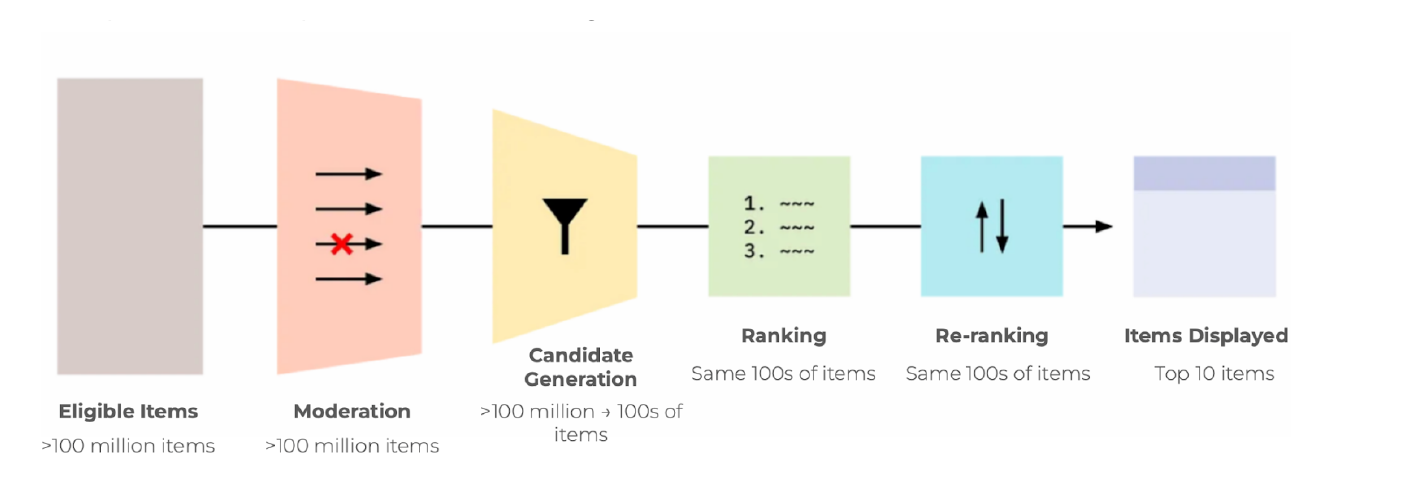
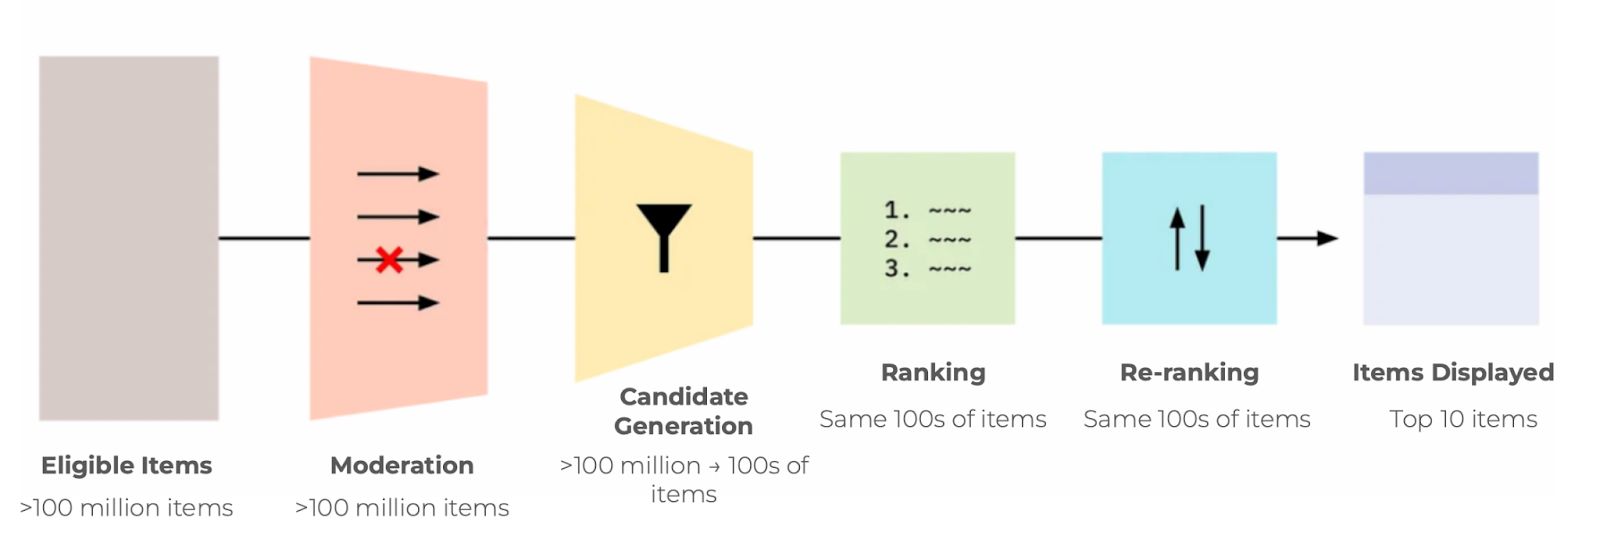
Week4 tweaks

diff --git a/docs/assets/SOURCES.md b/docs/assets/SOURCES.md
@@ -22,7 +22,7 @@
 
 - **feeds/** — illustrations for the week 4 "Feed Algorithms" and "Values in Ranking" slides:
   - **feeds/RankingFlow.jpg** and **feeds/Under-the-Hood_Hero_1920x1080_Final.jpg.webp** — Meta's own News Feed ranking-flow illustrations, from Akos Lada, Meihong Wang, and Tak Yan, ["How Does News Feed Predict What You Want to See?"](https://about.fb.com/news/2021/01/how-does-news-feed-predict-what-you-want-to-see/), Meta Newsroom, January 26, 2021 — License: © Meta; not CC or public domain. Used as published-diagram illustration for classroom teaching; reassess before any external distribution.
-  - **feeds/Recommender-Systems-101.pdf** and **feeds/recsys-pipeline-kgi.png** — [Knight-Georgetown Institute, *Recommender Systems 101*](https://kgi.georgetown.edu/wp-content/uploads/2025/02/Recommender-Systems-101.pdf), March 2025 — the PNG is the pipeline figure cropped from page 1 of that PDF at 200 dpi — License: see KGI; used with attribution for classroom teaching.
+  - **feeds/Recommender-Systems-101.pdf** and **feeds/recsys-pipeline-kgi.png** — [Knight-Georgetown Institute, *Recommender Systems 101*](https://kgi.georgetown.edu/wp-content/uploads/2025/02/Recommender-Systems-101.pdf), March 2025 — the PNG is the pipeline figure extracted at native resolution (1600×554) from page 1 of that PDF — the figure is stored in the PDF as a raster image, so no vector version exists — License: see KGI; used with attribution for classroom teaching.
   - **feeds/newsstand-2012.jpg** — [Wikimedia Commons: 2012 newsstand 6751560847.jpg](https://commons.wikimedia.org/wiki/File:2012_newsstand_6751560847.jpg) — Photo by Bobbie Johnson, Brighton, 23 January 2012 — License: CC BY-SA 2.0 — auto-oriented, stripped of EXIF, and downscaled to 1600px on the long edge
 
 - **news/** — lead photographs from the news stories quoted on the week 4 "Ethics in the News" slide; see [news/SOURCES.md](news/SOURCES.md) for per-file credits and licensing

diff --git a/docs/slides/week4.md b/docs/slides/week4.md
@@ -576,6 +576,12 @@ September 11, 2026: Anthropic reports that a cell in northern Yemen used its Cla
 
 ---
 
+## Red/Blue Button: What Would AIs Press? {.figure-slide .framed-figure}
+
+![](../assets/red-blue-ai.png){style="max-height:520px;"}
+
+---
+
 # Feed Algorithms {.title-slide .section-header}
 
 ---
